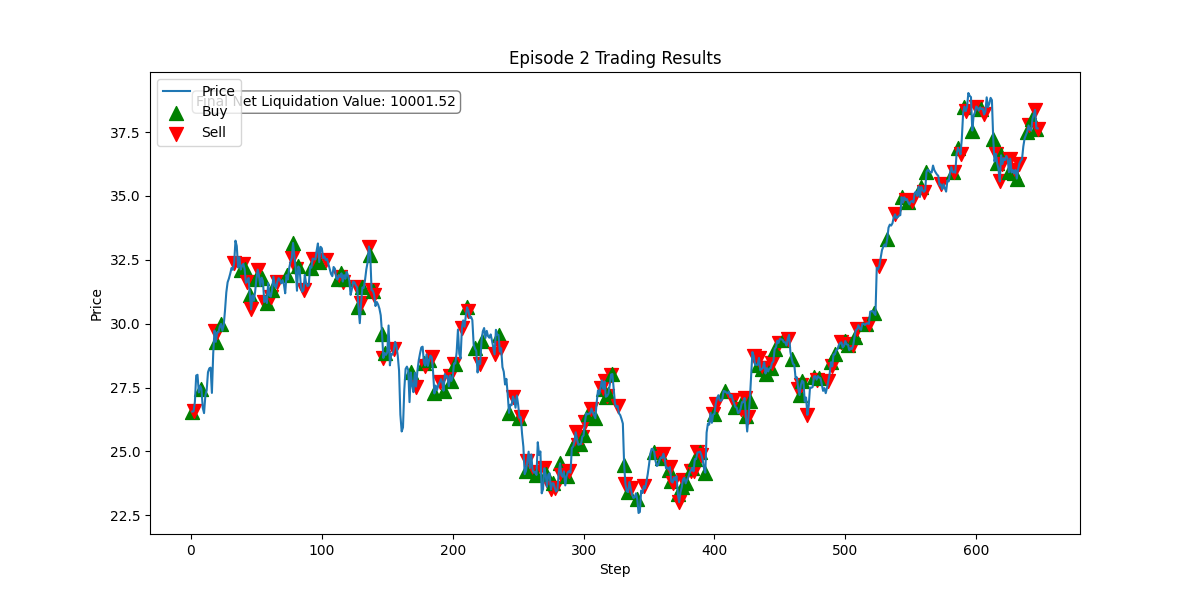
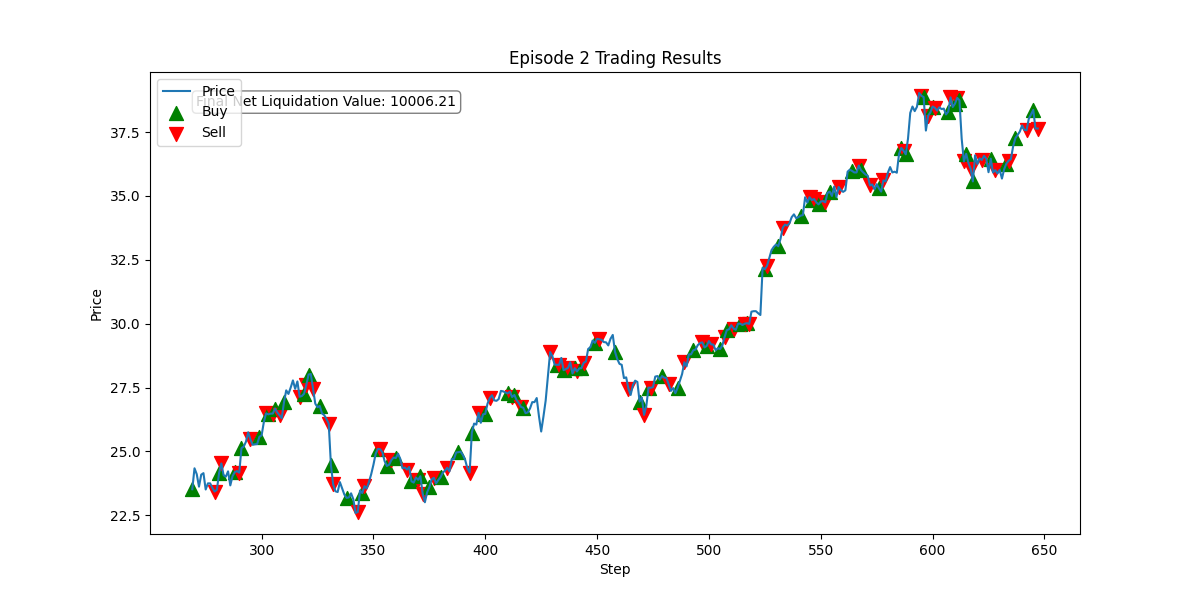
fix

diff --git a/deep_q.py b/deep_q.py
@@ -12,7 +12,7 @@ epsilon = 1.0                 # Initial exploration rate
 epsilon_decay = 0.995         # Decay rate for exploration probability
 epsilon_min = 0.01            # Minimum exploration probability
 batch_size = 32               # Batch size for training
-episodes = 5                 # Number of episodes to train
+episodes = 5                   # Number of episodes to train
 target_update_freq = 5        # Frequency to update the target network
 
 # Ensure the results directory exists
@@ -37,7 +37,8 @@ class SimpleTradingEnv:
     def reset(self):
         """Resets the environment to the initial state."""
         self.account_value = self.initial_account_value
-        self.current_step = 0  # Start from the beginning
+        # Randomize the starting point
+        self.current_step = random.randint(0, self.data_length - 2)  # -2 to prevent index out of range
         self.done = False
         self.position = 0        # 0: No position, 1: Long position
         self.entry_price = None  # Price at which the position was opened
@@ -160,7 +161,7 @@ def train(replay_buffer, model, target_model, batch_size, max_length):
     Trains the model using experiences from the replay buffer.
     """
     if len(replay_buffer.buffer) < batch_size:
-        return
+        return None  # Return None if not enough samples
 
     minibatch = replay_buffer.sample(batch_size)
     states = [exp[0] for exp in minibatch]
@@ -174,22 +175,24 @@ def train(replay_buffer, model, target_model, batch_size, max_length):
     next_states_padded = pad_sequences(next_states, maxlen=max_length, dtype='float32', padding='pre', truncating='pre')
 
     # Reshape for LSTM input
-    states_padded = states_padded.reshape(batch_size, max_length, 1)
-    next_states_padded = next_states_padded.reshape(batch_size, max_length, 1)
+    states_padded = states_padded.reshape(len(minibatch), max_length, 1)
+    next_states_padded = next_states_padded.reshape(len(minibatch), max_length, 1)
 
     # Predict Q-values for current states and next states
     q_values = model.predict(states_padded)
     target_q_values = target_model.predict(next_states_padded)
 
     # Update Q-values using the Bellman equation
-    for i in range(batch_size):
+    for i in range(len(minibatch)):
         if dones[i]:
             q_values[i][actions[i]] = rewards[i]
         else:
             q_values[i][actions[i]] = rewards[i] + gamma * np.amax(target_q_values[i])
 
-    # Train the model
-    model.fit(states_padded, q_values, epochs=1, verbose=0)
+    # Train the model and capture the loss
+    history = model.fit(states_padded, q_values, epochs=1, verbose=0)
+    loss = history.history['loss'][0]
+    return loss
 
 # Epsilon-Greedy Action Selection
 def select_action(state, model, epsilon, max_length):
@@ -219,6 +222,9 @@ target_model.set_weights(model.get_weights())
 
 replay_buffer = ReplayBuffer()
 episode_rewards = []          # To track rewards for each episode
+losses = []                   # To track loss values during training
+avg_q_values = []             # To track average Q-values
+epsilon_values = []           # To track epsilon values over episodes
 
 for episode in range(episodes):
     state = env.reset()
@@ -253,14 +259,25 @@ for episode in range(episodes):
         state = next_state
 
         # Train the model if enough samples are available
-        train(replay_buffer, model, target_model, batch_size, max_length)
+        loss = train(replay_buffer, model, target_model, batch_size, max_length)
+        if loss is not None:
+            losses.append(loss)
 
         # Update target network periodically
         if steps % target_update_freq == 0:
             target_model.set_weights(model.get_weights())
 
+        # Track average Q-values
+        # Pad the state
+        padded_state = pad_sequences([state], maxlen=max_length, dtype='float32', padding='pre', truncating='pre')
+        padded_state = padded_state.reshape(1, max_length, 1)
+        q_values = model.predict(padded_state)
+        avg_q = np.mean(q_values[0])
+        avg_q_values.append(avg_q)
+
         if done:
             episode_rewards.append(total_reward)
+            epsilon_values.append(epsilon)
             print(f"Episode: {episode + 1}, Total Reward: {total_reward:.2f}, Steps: {steps}, Epsilon: {epsilon:.2f}")
             print(f"Final Net Liquidation Value: {env.net_liq_val:.2f}")
 
@@ -289,7 +306,8 @@ for episode in range(episodes):
             textstr = f'Final Net Liquidation Value: {env.net_liq_val:.2f}'
             props = dict(boxstyle='round', facecolor='white', alpha=0.5)
             plt.text(0.05, 0.95, textstr, transform=plt.gca().transAxes,
-                     fontsize=10, verticalalignment='top', bbox=props)
+                    fontsize=10, verticalalignment='top', bbox=props)
+
 
             plt.savefig(f'results/trades_episode_{episode + 1}.png')
             plt.close()
@@ -297,12 +315,42 @@ for episode in range(episodes):
 
             break
 
-# Final plot of rewards over episodes
+# Plot of rewards over episodes
 plt.figure()
 plt.plot(episode_rewards)
 plt.xlabel('Episode')
 plt.ylabel('Total Reward')
 plt.title('Total Rewards over Episodes')
-plt.savefig('results/figure.png')
+plt.savefig('results/total_rewards.png')
 plt.close()
-print("Plot saved to results/figure.png.")
+print("Total Rewards plot saved to results/total_rewards.png.")
+
+# Plot of training loss over time
+plt.figure()
+plt.plot(losses)
+plt.xlabel('Training Steps')
+plt.ylabel('Loss')
+plt.title('Training Loss Over Time')
+plt.savefig('results/loss.png')
+plt.close()
+print("Loss plot saved to results/loss.png.")
+
+# Plot of average Q-values over time
+plt.figure()
+plt.plot(avg_q_values)
+plt.xlabel('Training Steps')
+plt.ylabel('Average Q-Value')
+plt.title('Average Q-Values Over Time')
+plt.savefig('results/avg_q_values.png')
+plt.close()
+print("Average Q-Values plot saved to results/avg_q_values.png.")
+
+# Plot of epsilon over episodes
+plt.figure()
+plt.plot(range(1, episodes + 1), epsilon_values)
+plt.xlabel('Episode')
+plt.ylabel('Epsilon')
+plt.title('Epsilon Values over Episodes')
+plt.savefig('results/epsilon_values.png')
+plt.close()
+print("Epsilon plot saved to results/epsilon_values.png.")
